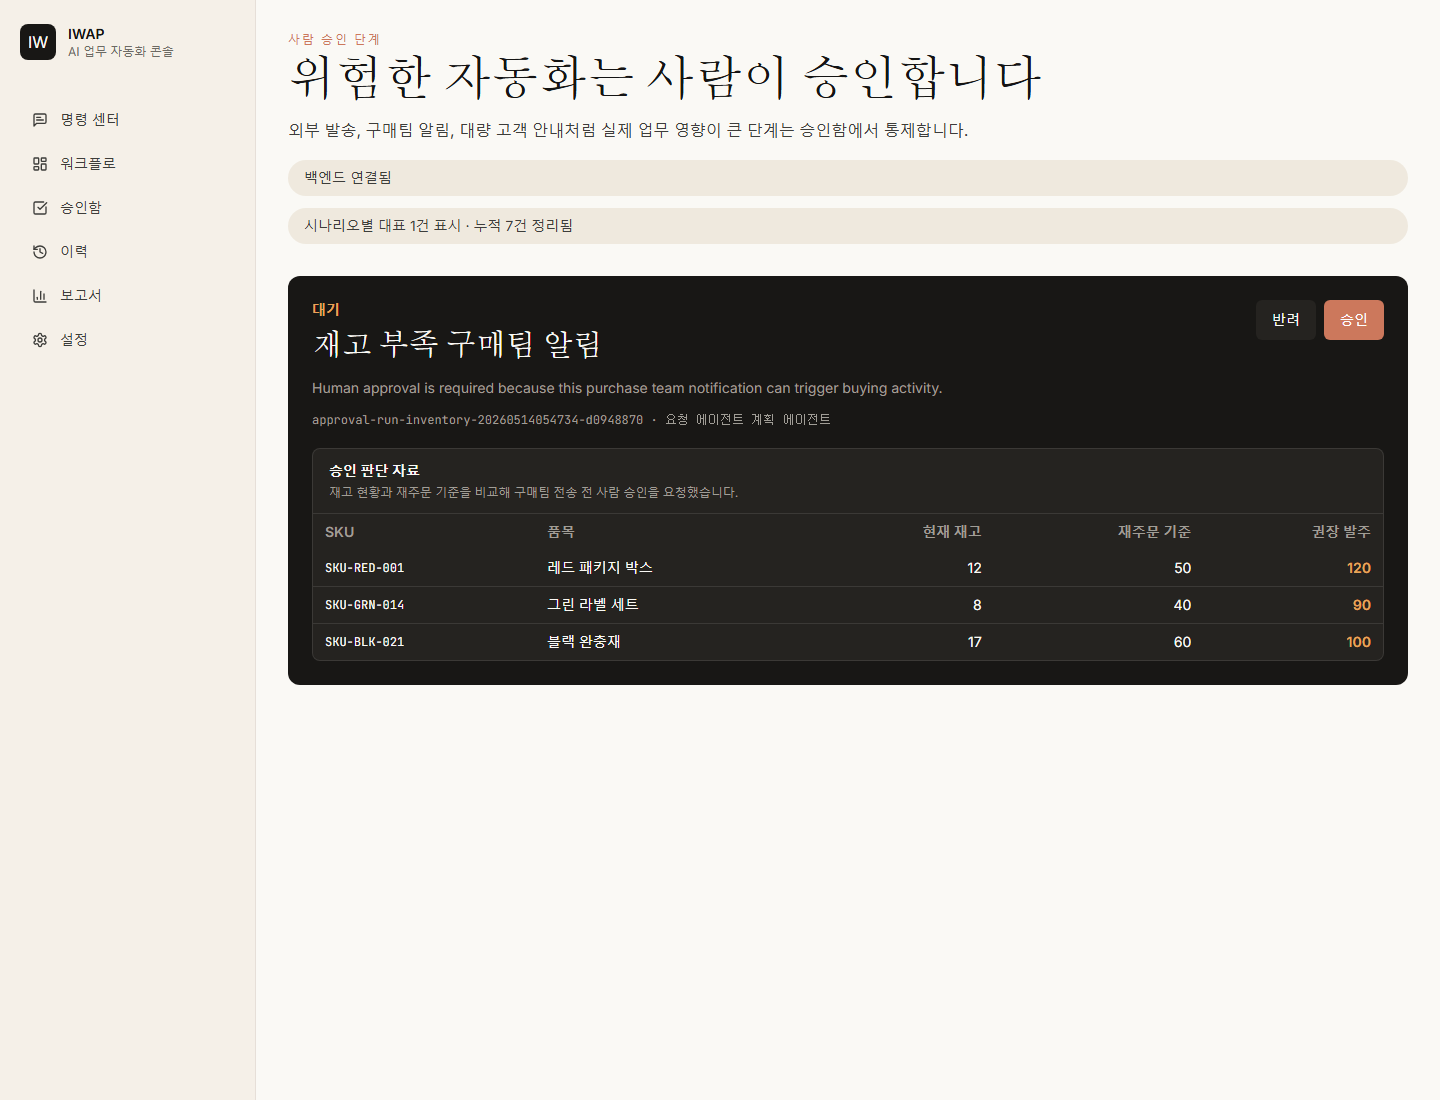
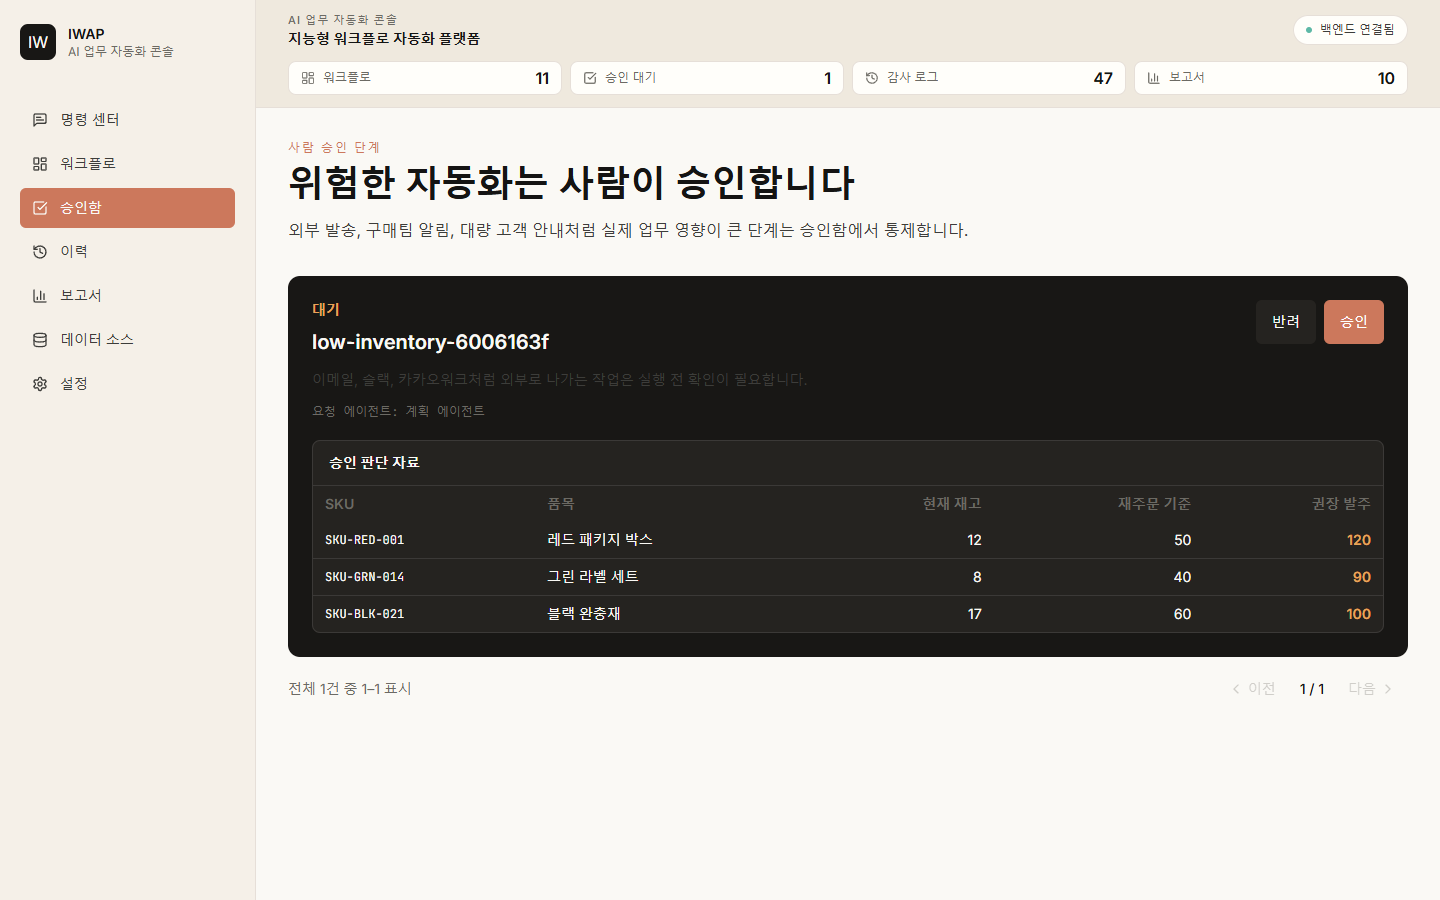
docs: 2026-05-16 수정 내역 추가 및 포트폴리오 스크린샷 현행화
- README에 2026-05-16 수정 내역 섹션 추가
  - low-inventory 승인 흐름 버그 수정 내용
  - LLM 플래너(Groq) 및 승인 흐름 문서화
  - 프론트엔드 WAITING_FOR_APPROVAL UX 수정
  - 포트폴리오 HTML 현행화 내용
- 포트폴리오 스크린샷 4장 현행 UI 기준으로 교체

diff --git a/README.md b/README.md
@@ -434,6 +434,33 @@ curl.exe -I http://localhost:3000
 - `MockAssistantPlanner`의 이메일 정규식이 한글 문자를 포함해 Gmail SMTP 오류를 유발하던 문제를 ASCII 전용 정규식으로 수정했습니다.
 - `NotifierAgent`에 `buildEmailBody` 메서드를 추가해 보고서 산출물 내용을 이메일 본문에 포함합니다.
 
+## 2026-05-16 수정 내역
+
+### 승인 흐름 버그 수정 (low-inventory)
+
+- `AssistantService.toWorkflowPlan()`에서 `approvalRequired`를 하드코딩 `false`로 넘기던 버그를 수정했습니다. 이 코드는 "승인하고 실행" 버튼 클릭을 오케스트레이터의 Human-in-the-Loop 승인과 혼동해 생긴 문제였습니다. 올바른 동작은 `plan.requiresApproval()`을 그대로 전달해 오케스트레이터가 `ApprovalRequest`를 생성하게 하는 것입니다.
+- `"approval"` 의사 액션은 실행 Step이 아니므로 `WorkflowStep` 변환 시 제외하도록 필터를 추가했습니다.
+- MockAssistantPlanner 기반 테스트 두 건의 기대값을 `WAITING_FOR_APPROVAL`로 수정했습니다 (올바른 동작).
+
+### LLM 플래너(Groq) 및 승인 흐름 README 현행화
+
+- `## LLM 플래너` 섹션을 추가해 Groq API 환경변수 설정 방법을 문서화했습니다.
+- `## 승인 흐름` 섹션을 추가해 채팅 레벨 확인과 Approval Inbox Human-in-the-Loop 승인의 두 단계를 도식으로 설명했습니다.
+- 환경변수 목록을 Groq/SMTP 구분 테이블 형식으로 정리했습니다.
+
+### 프론트엔드 UX 수정
+
+- 워크플로 실행 결과가 `WAITING_FOR_APPROVAL` 상태일 때 `ResultCard`("실행 결과")가 표시되지 않도록 수정했습니다. 승인 대기 중에는 채팅 메시지만 표시하고 ResultCard는 실제 완료 후에만 나타납니다.
+- `executePlan()` 경로와 `applyAssistantResponse()` 경로 두 곳 모두 수정했습니다.
+
+### 포트폴리오 HTML 현행화
+
+- 스크린샷 4장을 현행 UI 기준으로 교체했습니다 (Command Center, Approvals, Workflows, Reports).
+- Reports 페이지 스크린샷에 우측 상세 패널(KPI 카드, 파이·바 차트)이 포함되도록 업데이트했습니다.
+- 승인함 스크린샷에 low-inventory 승인 대기 카드와 반려/승인 버튼이 보이도록 업데이트했습니다.
+- 커버 스탯에서 "개발 기간 2주" 항목을 제거했습니다.
+- 푸터 스택 나열 항목을 삭제하고 GitHub 링크(`github.com/jm-dev00t/iwap`)로 교체했습니다.
+
 ## 작업 현황
 
 | 작업 | 상태 | 완료일 |
@@ -454,3 +481,4 @@ curl.exe -I http://localhost:3000
 | slots 이메일 수신자 실행까지 전달 | ✅ 완료 | 2026-05-16 |
 | low-inventory 승인 우회 버그 수정 (LLM·Mock 공통) | ✅ 완료 | 2026-05-16 |
 | README LLM 플래너(Groq) + 승인 흐름 현행화 | ✅ 완료 | 2026-05-16 |
+| 승인 대기 시 ResultCard 미표시 (프론트 UX 수정) | ✅ 완료 | 2026-05-16 |
